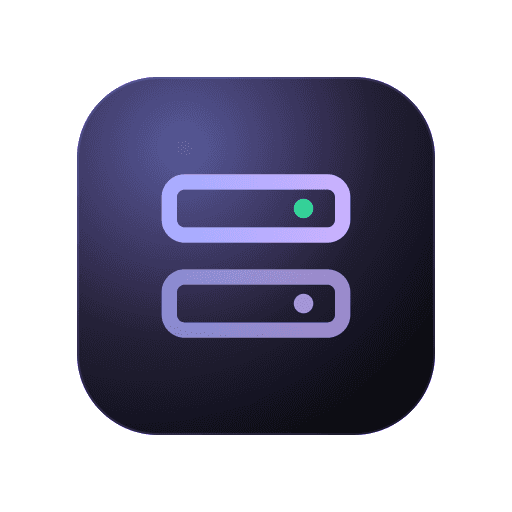
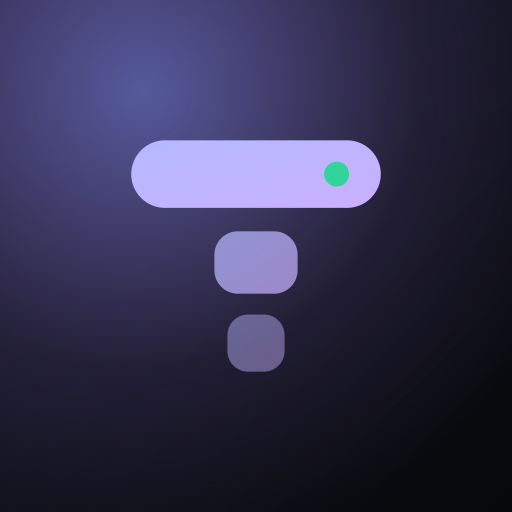
feat(brand): new Tiller mark (tiller bar + rudder of stacked guests, a T)
The bar is the tiller and a server with its status light; the tapering
blocks below are the rudder and stacked guests. Logo.tsx follows the theme
accent (paper: white on Clay) with the light cut out via a mask; favicon.svg
and web/icons/maskable.svg are the sources for the PNG/ICO icons, rebuilt by
scripts/gen-icons.sh (rsvg-convert + ImageMagick on the test server).

diff --git a/web/src/components/Logo.tsx b/web/src/components/Logo.tsx
@@ -1,7 +1,15 @@
+import { useId } from 'react'
+
 import { cn } from '@/lib/utils'
 
-/** App mark: two server bays in a glass tile. Follows the theme accent. */
+/**
+ * App mark in a glass tile, following the theme accent: the tiller bar (a
+ * server with its status light, cut out) over a tapering rudder of stacked
+ * guests, reading as a T. Same drawing as public/favicon.svg.
+ */
 export function Logo({ className }: { className?: string }) {
+  // useId() contains characters that url(#…) does not accept.
+  const light = `tiller-light-${useId().replace(/[^\w-]/g, '')}`
   return (
     <span
       className={cn(
@@ -12,11 +20,14 @@ export function Logo({ className }: { className?: string }) {
       )}
       aria-hidden
     >
-      <svg viewBox="0 0 24 24" className="size-[60%] text-brand-strong paper:text-white" fill="none" stroke="currentColor" strokeWidth="2.2">
-        <rect x="4" y="4.5" width="16" height="6" rx="1.8" />
-        <rect x="4" y="13.5" width="16" height="6" rx="1.8" opacity="0.7" />
-        <circle cx="16.5" cy="7.5" r="1.1" fill="currentColor" stroke="none" />
-        <circle cx="16.5" cy="16.5" r="1.1" fill="currentColor" stroke="none" />
+      <svg viewBox="0 0 64 64" className="size-[62%] text-brand-strong paper:text-white" fill="currentColor">
+        <mask id={light}>
+          <rect width="64" height="64" fill="white" />
+          <circle cx="47.5" cy="16.5" r="2.4" fill="black" />
+        </mask>
+        <rect x="8" y="10" width="48" height="13" rx="6.5" mask={`url(#${light})`} />
+        <rect x="24" y="27.5" width="16" height="12" rx="4.5" opacity="0.72" />
+        <rect x="26.5" y="43.5" width="11" height="11" rx="4" opacity="0.45" />
       </svg>
     </span>
   )
